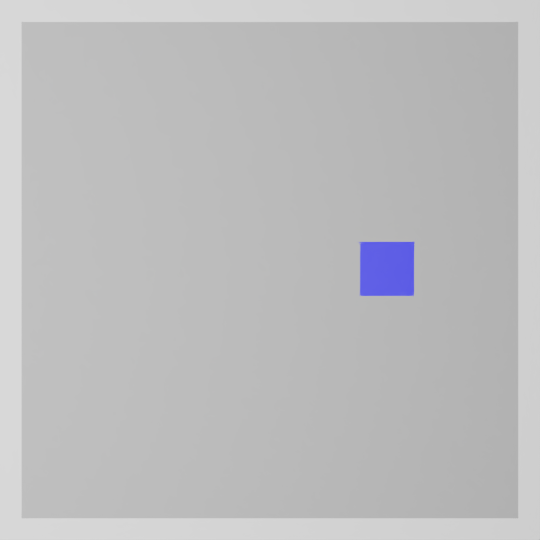
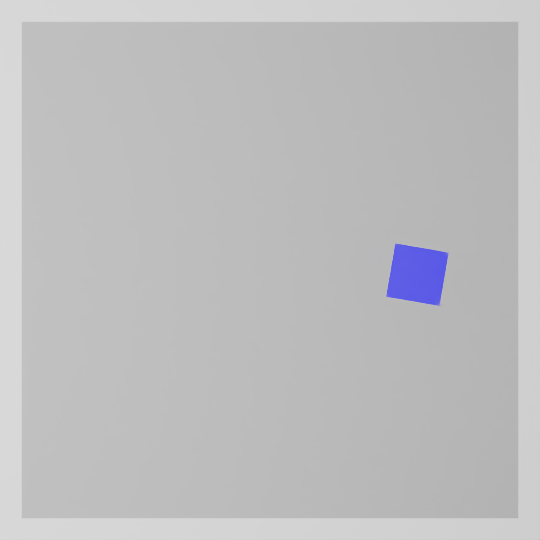
Push works and its speedy

Changed region(s): [[0.6519, 0.4444, 0.8296, 0.563]]

diff --git a/Vlad-AILAB/utils_robots/controllers/push_manipulation_controller.py b/Vlad-AILAB/utils_robots/controllers/push_manipulation_controller.py
@@ -58,12 +58,12 @@ class PushManipulationController(manipulators_controllers.PickPlaceController):
         # At 60Hz physics: 0.01 increment = ~100 steps to reach t=1.0 (~1.67 seconds per phase)
         # Faster values = quicker phase progression
         if events_dt is None:
-            events_dt = [0.005, 0.01, 0.005, 0.003, 0.005]  # Balanced speed
-            # Element1: move to overhead position
-            # Element2: close gripper
-            # Element3: move to push start position
-            # Element4: push
-            # Element5: return to original position
+            events_dt = [0.009, 0.01, 0.009, 0.003, 0.009]  # Balanced speed
+            # Element0: move to overhead position
+            # Element1: close gripper
+            # Element2: move to push start position
+            # Element3: push
+            # Element4: return to original position
         # Get USD path from robot if available
         robot_usd_path = None
         if hasattr(robot_articulation, '_usd_path'):
